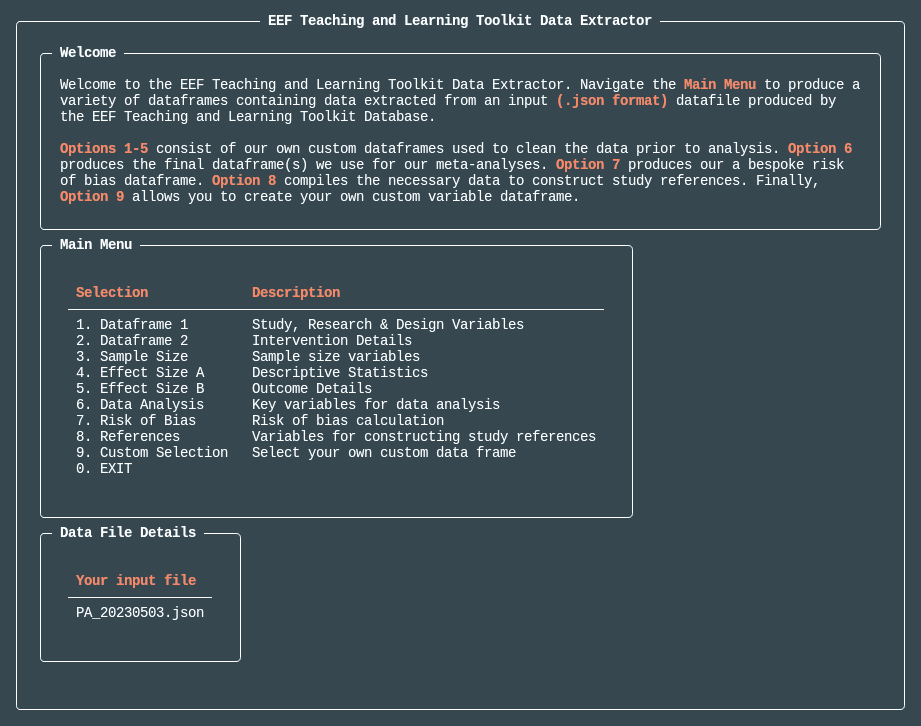
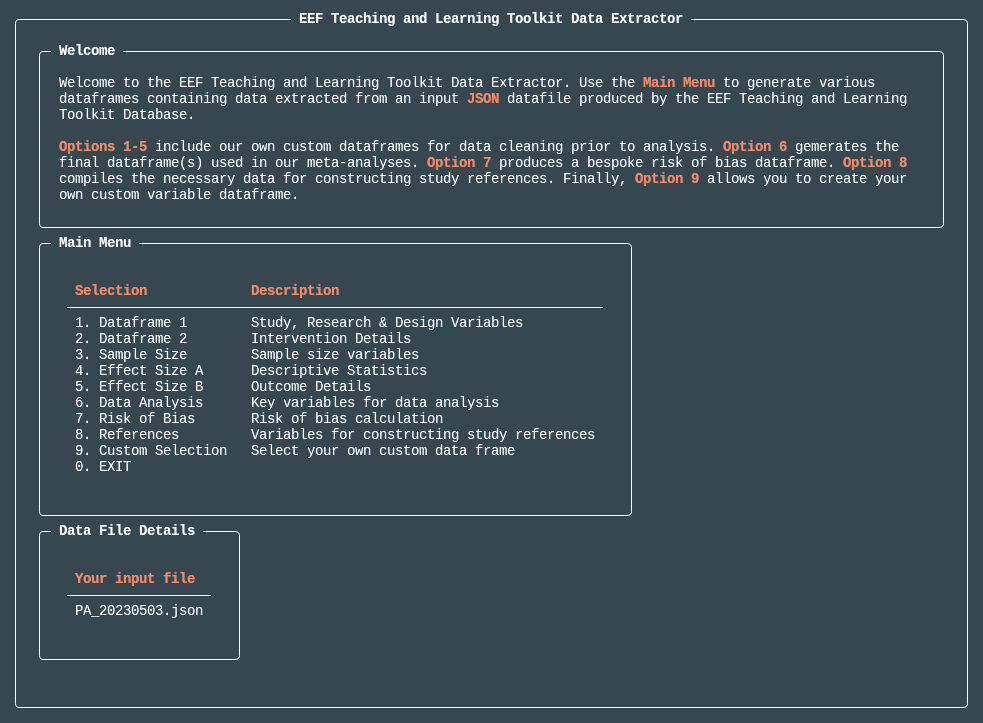
error-free image and additional info to READMME

diff --git a/README.md b/README.md
@@ -1,7 +1,7 @@
 
 <h1 align="center">EEF Toolkit Datafile Extraction</h1>
 
-This is a command line application that accepts data files from the [Teaching and Learning Toolkit](https://educationendowmentfoundation.org.uk/education-evidence/teaching-learning-toolkit?gclid=CjwKCAjwjMiiBhA4EiwAZe6jQ3WnUgowD16xFwcG_6hZySd_qiKcElx5wRI0BjJAdwj5RkFT_kzz1hoCS_MQAvD_BwE) database and returns several bespoke dataframes required for data cleaning and analysis. The database produces long and complex (heavily nested) JSON files, and this application provides an easy way to extract the data we need as part of a wider processing pipeline.
+This command line application is designed to process data files from the [Teaching and Learning Toolkit](https://educationendowmentfoundation.org.uk/education-evidence/teaching-learning-toolkit?gclid=CjwKCAjwjMiiBhA4EiwAZe6jQ3WnUgowD16xFwcG_6hZySd_qiKcElx5wRI0BjJAdwj5RkFT_kzz1hoCS_MQAvD_BwE) database. It allows you to extract specific dataframes required for data cleaning and analysis purposes. The database provides JSON files with nested structures, and this application simplifies the process of extracting the necessary data, making it easier to integrate into your broader data processing pipeline.
 
 ## Dependencies
 
@@ -12,24 +12,34 @@ This is a command line application that accepts data files from the [Teaching an
 - rich 12.4.4
 - toolz 0.11.2
 
+Please make sure you have the above dependencies installed before running the application.
+
 ## How to Run
 
-To run the application, simply follow these steps.
+To run the application, follow these steps.
 
-Clone this repository:
+1. Clone this repository:
 
 ```bash
 >> git clone https://github.com/JonathanReardon/ToolkitExtraction
 >> cd ToolkitExtraction
 ```
 
-Run the application:
+2. Install the required dependencies by executing the following command:
+
+```bash
+pip install -r requirements.txt
+```
+
+3. Run the application:
 
 ```bash
 >> python3 main.py
 ```
 
-![](/img/visual1.png)
+![Here is the main menu. Select an option [1-9] corresponding to the dataframe you want.](/img/visual1.png)
+
+All output dataframes will be saved to the 'output' directory under the same name as your input file.
 
 ## Dataframe 1 [Study, Research and Design Variables]
 
